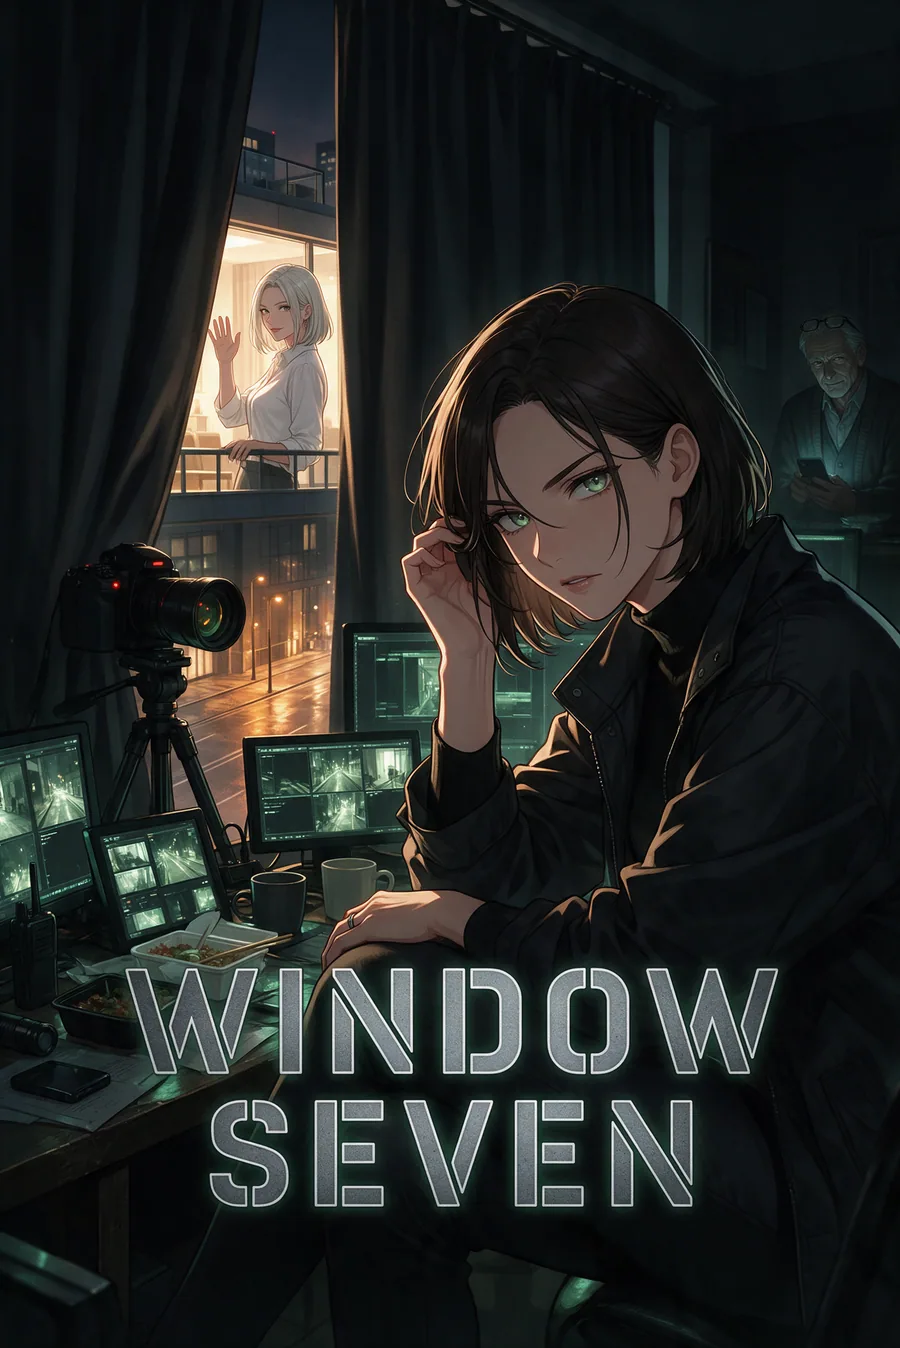
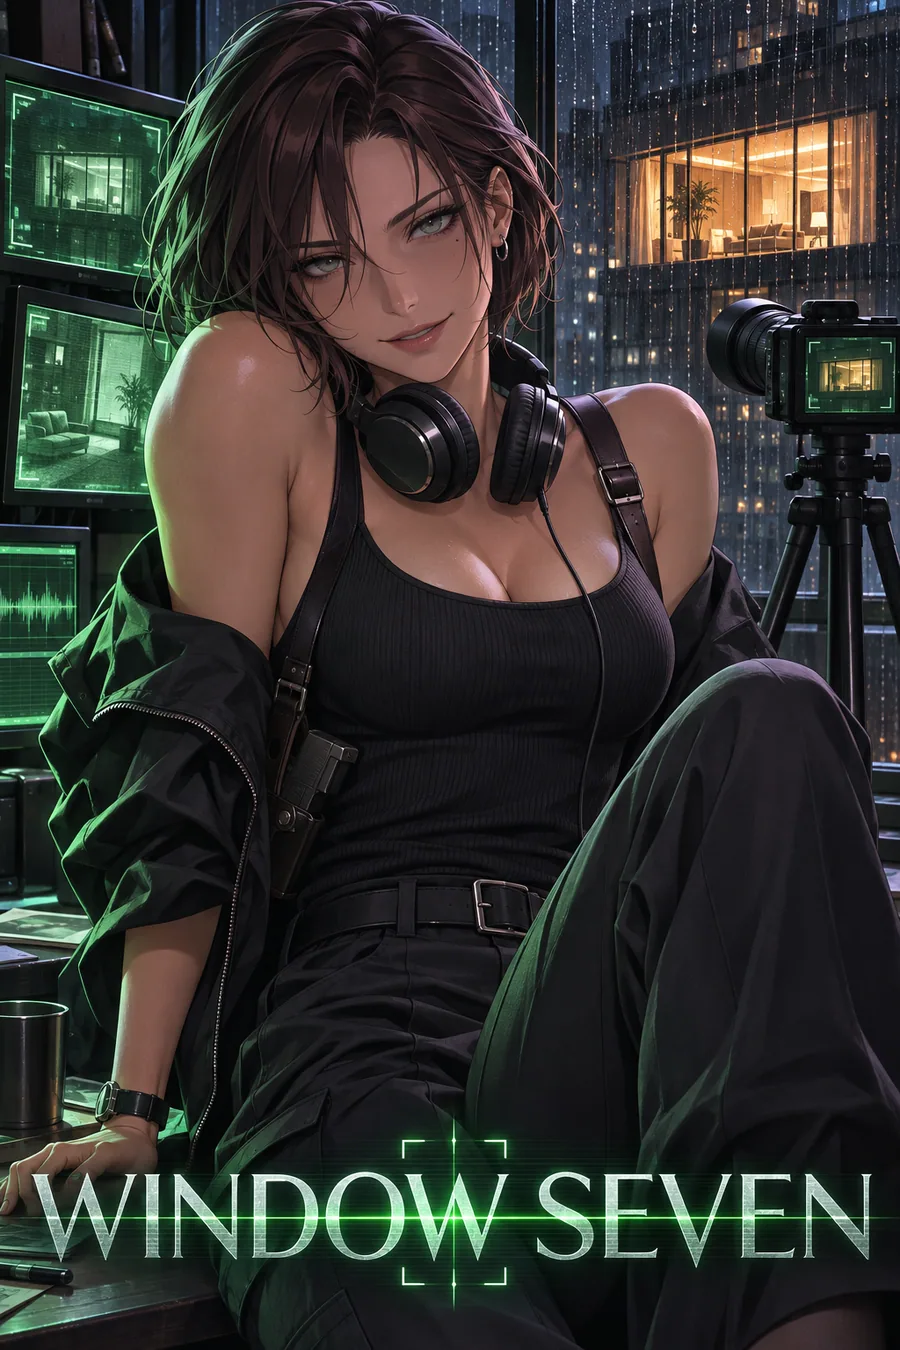
Covers v5 (English only): Seven Names, Window Seven, Primal Crown, The Tidewall, Last Service, The Fourth Beast; French keeps the old covers for now

diff --git a/infra/scripts/cover-openai.ts b/infra/scripts/cover-openai.ts
@@ -85,6 +85,78 @@ SCENE: a mech hangar on a space station at night. Behind her, huge and imposing,
 CHARACTER, large in frame, from mid-thigh up, filling about three quarters of the cover, close and centred: RHEA, an extremely attractive, very feminine adult woman of twenty-four, an elite rival mech pilot. Long glossy crimson-red hair falling past her shoulders in soft waves, pale gold eyes with long lashes, glossy lips, a soft beautiful face, curvy hourglass figure, a tiny pale scar under her left jawline. She wears a glossy black-and-crimson form-fitting pilot plugsuit with the front zip pulled down below her collarbone, the top half slipping off one shoulder, a gold Helion pilot pendant at her throat. Graceful, alluring pose: hips cocked to one side, one hand lifting her hair off her neck, the other resting lightly on the robot's giant chrome finger beside her, chin tilted down, looking at the viewer through her lashes with a soft, teasing, dangerous smile, as if inviting them into the cockpit.
 
 MOOD: glamorous, seductive, feminine mecha heroine; crimson rim light tracing her hair and silhouette against the cold blue hangar, the robot's red eye echoing her hair. Polished seasonal-anime key visual. ${RULES}`,
+
+  story_seven_names: `${STYLE}
+
+THE TITLE IS PART OF THE ART. Render the words "SEVEN NAMES" as a bespoke stylized logo: elegant gilded Art Deco serif lettering in warm gold with a faint candlelit glow, placed in the lower third, large and perfectly legible, spelled exactly "SEVEN NAMES". No other text anywhere.
+
+SCENE: a glittering masked ball in a glass-roofed 1920s Paris hall at night, chandeliers, champagne, dancers blurred behind her, gold and deep emerald light.
+
+CHARACTER, large in frame, from mid-thigh up, filling about three quarters of the cover, close and centred: CÉLESTE VARENNE, an extremely attractive adult woman of twenty-four, a con artist with seven identities and the only person who knows who really killed the minister. Dark chestnut hair in a glossy soft bob, grey-blue eyes, red lips, graceful figure. She wears a backless emerald satin evening gown with a high slit showing one leg, long black gloves, a black lace masquerade mask pushed up into her hair. She looks back at the viewer over her bare shoulder, holding a sealed letter between two gloved fingers against her lips, a sly, secretive, seductive smile.
+
+LEVEL: Sexier than a cosy romance cover, less than a pin-up: alluring, confident and flirtatious, showing some skin (bare shoulders, legs or midriff, a neckline that's open but not plunging), body-conscious clothes, a direct inviting look at the viewer.
+
+MOOD: glamorous, dangerous, seductive Belle Époque mystery; warm gold chandelier light on her skin against deep emerald shadow. ${RULES}`,
+
+  story_window_seven: `${STYLE}
+
+THE TITLE IS PART OF THE ART. Render the words "WINDOW SEVEN" as a bespoke stylized logo: clean cold surveillance-thriller lettering in pale silver with a green night-vision glow and a thin scanline, placed in the lower third, large and perfectly legible, spelled exactly "WINDOW SEVEN". No other text anywhere.
+
+SCENE: a dark apartment at night lit only by green surveillance monitors and a camera on a tripod pointed at a glowing penthouse window across the street, city lights and rain on the glass.
+
+CHARACTER, large in frame, from mid-thigh up, filling about three quarters of the cover, close and centred: MARA ELLISON, an extremely attractive adult woman of twenty-seven, the surveillance officer the viewer shares a stakeout with for seven nights. Jaw-length dark chestnut hair slightly mussed, grey-green eyes, lean athletic figure. Her black covert jacket has slipped off her shoulders and she wears a fitted black ribbed tank top tucked into high-waisted black trousers, a shoulder holster across her back. She sits on the edge of the desk beside the monitors, one knee up, headphones around her neck, turning from the screens to look at the viewer with a tired, knowing, flirtatious half-smile, as if it's 3 a.m. and the target is asleep.
+
+LEVEL: Sexier than a cosy romance cover, less than a pin-up: alluring, confident and flirtatious, showing some skin (bare shoulders, legs or midriff, a neckline that's open but not plunging), body-conscious clothes, a direct inviting look at the viewer.
+
+MOOD: intimate, tense, late-night thriller; her face and skin lit green and blue by the monitors, warm penthouse glow behind. ${RULES}`,
+
+  story_primal_crown: `${STYLE}
+
+THE TITLE IS PART OF THE ART. Render the words "PRIMAL CROWN" as a bespoke stylized logo: rough carved bone-and-gold tribal lettering with sunlit edges and a dusty glow, placed in the lower third, large and perfectly legible, spelled exactly "PRIMAL CROWN". No other text anywhere.
+
+SCENE: a vast golden savanna at sunset, a smoking volcano on the horizon, a huge stampede of prehistoric beasts and mammoths kicking up dust behind her, a sabre-toothed tiger lying at her feet.
+
+CHARACTER, large in frame, from mid-thigh up, filling about three quarters of the cover, close and centred: KAIA THORN, an extremely attractive adult woman of twenty-three, a fearless beast rider and the viewer's guide. Long dark copper hair in a loose wild braid coming apart, sun-kissed bronze skin, amber eyes, toned athletic curvy figure. She wears a cropped leather riding top and a short leather wrap skirt with a red woven sash at her hips, bone and amber jewellery, bare toned midriff and legs, leather arm wraps. She kneels with one hand resting on the tiger's head, the other holding a spear, looking straight at the viewer with a wild, playful, challenging smile, hair blowing in the wind.
+
+LEVEL: Sexier than a cosy romance cover, less than a pin-up: alluring, confident and flirtatious, showing some skin (bare shoulders, legs or midriff, a neckline that's open but not plunging), body-conscious clothes, a direct inviting look at the viewer.
+
+MOOD: warm, wild, adventurous and sexy; golden-hour rim light on her skin and hair against the dust and the stampede. ${RULES}`,
+
+  story_tidewall: `${STYLE}
+
+THE TITLE IS PART OF THE ART. Render the words "THE TIDEWALL" as a bespoke stylized logo: massive weathered steel-and-stone fortress lettering with icy blue edge light and frost, placed in the lower third, large and perfectly legible, spelled exactly "THE TIDEWALL". No other text anywhere.
+
+SCENE: the top of a colossal stone fortress wall at dusk in winter, snow blowing, braziers burning orange along the battlements, and below in the valley a dark tide of glowing-eyed beasts pouring out of the mountains.
+
+CHARACTER, large in frame, from mid-thigh up, filling about three quarters of the cover, close and centred: COMMANDER SABEL ANSETT, an extremely attractive adult woman in her early thirties, commander of the wall. A long dark braid over one shoulder, piercing grey eyes, strong elegant face, athletic curvy figure. She wears a fitted black commander's greatcoat hanging open over a form-fitting dark leather corset-style armour vest and fitted trousers with tall boots, one black glove on, a sword at her hip. She stands with one boot up on the battlement, coat blowing in the wind, looking back at the viewer with a cool, confident, slightly amused smile as if daring them to stay on the wall with her.
+
+LEVEL: Sexier than a cosy romance cover, less than a pin-up: alluring, confident and flirtatious, showing some skin (bare shoulders, legs or midriff, a neckline that's open but not plunging), body-conscious clothes, a direct inviting look at the viewer.
+
+MOOD: epic, cold and commanding with heat underneath; orange firelight on one side of her face, icy blue dusk on the other. ${RULES}`,
+
+  story_last_service: `${STYLE}
+
+THE TITLE IS PART OF THE ART. Render the words "LAST SERVICE" as a bespoke stylized logo: bold brush-script restaurant lettering in warm white with a steamy amber neon glow, placed in the lower third, large and perfectly legible, spelled exactly "LAST SERVICE". No other text anywhere.
+
+SCENE: a small family restaurant kitchen at night during the Friday rush, steam and flame from the wok burners, copper pans hanging, rain on the window behind, warm amber light.
+
+CHARACTER, large in frame, from mid-thigh up, filling about three quarters of the cover, close and centred: MINA SAEGUSA, an extremely attractive adult woman of twenty-four, the rival chef who turned up to buy the viewer's family restaurant and stayed to cook. Long dark hair in a loose low ponytail with strands falling across her face, sharp amber-brown eyes, glossy lips, slim curvy figure. Her white chef's jacket is unbuttoned and slipping off her shoulders over a fitted black camisole, sleeves rolled to the elbow, a sheen of kitchen heat on her skin, a silver tasting spoon in her hand. She leans back against the steel counter and holds the spoon out toward the viewer's mouth, eyes half-lidded, a teasing, competitive, flirty smile.
+
+LEVEL: Sexier than a cosy romance cover, less than a pin-up: alluring, confident and flirtatious, showing some skin (bare shoulders, legs or midriff, a neckline that's open but not plunging), body-conscious clothes, a direct inviting look at the viewer.
+
+MOOD: hot, steamy, flirty rivals-to-lovers kitchen romance; amber flame light and steam around her. ${RULES}`,
+
+  story_fourth_beast: `${STYLE}
+
+THE TITLE IS PART OF THE ART. Render the words "THE FOURTH BEAST" as a bespoke stylized logo: sharp gothic Parisian lettering in pale silver with a glowing green eldritch edge, placed in the lower third, large and perfectly legible, spelled exactly "THE FOURTH BEAST". No other text anywhere.
+
+SCENE: a rain-soaked Paris street at night, the Eiffel Tower lit in the mist behind, rows of memorial candles on wet cobblestones, a glowing green spectral fox-like creature coiled around a lamppost above her.
+
+CHARACTER, large in frame, from mid-thigh up, filling about three quarters of the cover, close and centred: CAMILLE LAURENT, an extremely attractive adult woman of twenty-one, searching Paris for her missing brother and the only one who can see the beasts. Short espresso-brown hair with a messy fringe damp from the rain, pale green eyes glowing faintly, slim athletic figure. She wears a cropped black leather jacket open over a thin cream crop top soaked by the rain, low-slung charcoal cargo trousers, bare toned midriff. She stands close to the viewer in the rain, one hand holding a candle, looking up at them through wet lashes with an intense, vulnerable, flirtatious look, lips parted.
+
+LEVEL: Sexier than a cosy romance cover, less than a pin-up: alluring, confident and flirtatious, showing some skin (bare shoulders, legs or midriff, a neckline that's open but not plunging), body-conscious clothes, a direct inviting look at the viewer.
+
+MOOD: moody, romantic urban-fantasy noir; candlelight warming her face against cold green-blue rain and the beast's glow. ${RULES}`,
 };
 
 async function generate(prompt: string): Promise<Buffer> {

diff --git a/docs/covers-v5/story_window_seven/PROMPT.md b/docs/covers-v5/story_window_seven/PROMPT.md
@@ -1,0 +1,13 @@
+# story_window_seven cover v5 (gpt-image-2.6-sunburst, 1024x1536, high)
+
+Anime light-novel / mobile-game cover illustration, portrait 2:3, premium polished Japanese anime key visual quality (like a modern seasonal anime poster or a Webtoon original cover). Glossy, detailed digital anime painting with clean lineart, luminous eyes, soft rim light, rich color depth. Not flat, not sketchy, not western cartoon, not 3D.
+
+THE TITLE IS PART OF THE ART. Render the words "WINDOW SEVEN" as a bespoke stylized logo: clean cold surveillance-thriller lettering in pale silver with a green night-vision glow and a thin scanline, placed in the lower third, large and perfectly legible, spelled exactly "WINDOW SEVEN". No other text anywhere.
+
+SCENE: a dark apartment at night lit only by green surveillance monitors and a camera on a tripod pointed at a glowing penthouse window across the street, city lights and rain on the glass.
+
+CHARACTER, large in frame, from mid-thigh up, filling about three quarters of the cover, close and centred: MARA ELLISON, an extremely attractive adult woman of twenty-seven, the surveillance officer the viewer shares a stakeout with for seven nights. Jaw-length dark chestnut hair slightly mussed, grey-green eyes, lean athletic figure. Her black covert jacket has slipped off her shoulders and she wears a fitted black ribbed tank top tucked into high-waisted black trousers, a shoulder holster across her back. She sits on the edge of the desk beside the monitors, one knee up, headphones around her neck, turning from the screens to look at the viewer with a tired, knowing, flirtatious half-smile, as if it's 3 a.m. and the target is asleep.
+
+LEVEL: Sexier than a cosy romance cover, less than a pin-up: alluring, confident and flirtatious, showing some skin (bare shoulders, legs or midriff, a neckline that's open but not plunging), body-conscious clothes, a direct inviting look at the viewer.
+
+MOOD: intimate, tense, late-night thriller; her face and skin lit green and blue by the monitors, warm penthouse glow behind. Every person in the image is an adult. She is drawn attractive and stylish in a commercial anime way, tasteful, nothing explicit, nothing see-through. Composed so her face still reads at thumbnail size, strong silhouette separation, high contrast. No watermark, no signature, no extra text, no logos, no speech bubbles, no borders.

diff --git a/docs/covers-v5/story_tidewall/PROMPT.md b/docs/covers-v5/story_tidewall/PROMPT.md
@@ -1,0 +1,13 @@
+# story_tidewall cover v5 (gpt-image-2.6-sunburst, 1024x1536, high)
+
+Anime light-novel / mobile-game cover illustration, portrait 2:3, premium polished Japanese anime key visual quality (like a modern seasonal anime poster or a Webtoon original cover). Glossy, detailed digital anime painting with clean lineart, luminous eyes, soft rim light, rich color depth. Not flat, not sketchy, not western cartoon, not 3D.
+
+THE TITLE IS PART OF THE ART. Render the words "THE TIDEWALL" as a bespoke stylized logo: massive weathered steel-and-stone fortress lettering with icy blue edge light and frost, placed in the lower third, large and perfectly legible, spelled exactly "THE TIDEWALL". No other text anywhere.
+
+SCENE: the top of a colossal stone fortress wall at dusk in winter, snow blowing, braziers burning orange along the battlements, and below in the valley a dark tide of glowing-eyed beasts pouring out of the mountains.
+
+CHARACTER, large in frame, from mid-thigh up, filling about three quarters of the cover, close and centred: COMMANDER SABEL ANSETT, an extremely attractive adult woman in her early thirties, commander of the wall. A long dark braid over one shoulder, piercing grey eyes, strong elegant face, athletic curvy figure. She wears a fitted black commander's greatcoat hanging open over a form-fitting dark leather corset-style armour vest and fitted trousers with tall boots, one black glove on, a sword at her hip. She stands with one boot up on the battlement, coat blowing in the wind, looking back at the viewer with a cool, confident, slightly amused smile as if daring them to stay on the wall with her.
+
+LEVEL: Sexier than a cosy romance cover, less than a pin-up: alluring, confident and flirtatious, showing some skin (bare shoulders, legs or midriff, a neckline that's open but not plunging), body-conscious clothes, a direct inviting look at the viewer.
+
+MOOD: epic, cold and commanding with heat underneath; orange firelight on one side of her face, icy blue dusk on the other. Every person in the image is an adult. She is drawn attractive and stylish in a commercial anime way, tasteful, nothing explicit, nothing see-through. Composed so her face still reads at thumbnail size, strong silhouette separation, high contrast. No watermark, no signature, no extra text, no logos, no speech bubbles, no borders.

diff --git a/docs/covers-v5/story_fourth_beast/PROMPT.md b/docs/covers-v5/story_fourth_beast/PROMPT.md
@@ -1,0 +1,13 @@
+# story_fourth_beast cover v5 (gpt-image-2.6-sunburst, 1024x1536, high)
+
+Anime light-novel / mobile-game cover illustration, portrait 2:3, premium polished Japanese anime key visual quality (like a modern seasonal anime poster or a Webtoon original cover). Glossy, detailed digital anime painting with clean lineart, luminous eyes, soft rim light, rich color depth. Not flat, not sketchy, not western cartoon, not 3D.
+
+THE TITLE IS PART OF THE ART. Render the words "THE FOURTH BEAST" as a bespoke stylized logo: sharp gothic Parisian lettering in pale silver with a glowing green eldritch edge, placed in the lower third, large and perfectly legible, spelled exactly "THE FOURTH BEAST". No other text anywhere.
+
+SCENE: a rain-soaked Paris street at night, the Eiffel Tower lit in the mist behind, rows of memorial candles on wet cobblestones, a glowing green spectral fox-like creature coiled around a lamppost above her.
+
+CHARACTER, large in frame, from mid-thigh up, filling about three quarters of the cover, close and centred: CAMILLE LAURENT, an extremely attractive adult woman of twenty-one, searching Paris for her missing brother and the only one who can see the beasts. Short espresso-brown hair with a messy fringe damp from the rain, pale green eyes glowing faintly, slim athletic figure. She wears a cropped black leather jacket open over a thin cream crop top soaked by the rain, low-slung charcoal cargo trousers, bare toned midriff. She stands close to the viewer in the rain, one hand holding a candle, looking up at them through wet lashes with an intense, vulnerable, flirtatious look, lips parted.
+
+LEVEL: Sexier than a cosy romance cover, less than a pin-up: alluring, confident and flirtatious, showing some skin (bare shoulders, legs or midriff, a neckline that's open but not plunging), body-conscious clothes, a direct inviting look at the viewer.
+
+MOOD: moody, romantic urban-fantasy noir; candlelight warming her face against cold green-blue rain and the beast's glow. Every person in the image is an adult. She is drawn attractive and stylish in a commercial anime way, tasteful, nothing explicit, nothing see-through. Composed so her face still reads at thumbnail size, strong silhouette separation, high contrast. No watermark, no signature, no extra text, no logos, no speech bubbles, no borders.

diff --git a/docs/covers-v5/story_last_service/PROMPT.md b/docs/covers-v5/story_last_service/PROMPT.md
@@ -1,0 +1,13 @@
+# story_last_service cover v5 (gpt-image-2.6-sunburst, 1024x1536, high)
+
+Anime light-novel / mobile-game cover illustration, portrait 2:3, premium polished Japanese anime key visual quality (like a modern seasonal anime poster or a Webtoon original cover). Glossy, detailed digital anime painting with clean lineart, luminous eyes, soft rim light, rich color depth. Not flat, not sketchy, not western cartoon, not 3D.
+
+THE TITLE IS PART OF THE ART. Render the words "LAST SERVICE" as a bespoke stylized logo: bold brush-script restaurant lettering in warm white with a steamy amber neon glow, placed in the lower third, large and perfectly legible, spelled exactly "LAST SERVICE". No other text anywhere.
+
+SCENE: a small family restaurant kitchen at night during the Friday rush, steam and flame from the wok burners, copper pans hanging, rain on the window behind, warm amber light.
+
+CHARACTER, large in frame, from mid-thigh up, filling about three quarters of the cover, close and centred: MINA SAEGUSA, an extremely attractive adult woman of twenty-four, the rival chef who turned up to buy the viewer's family restaurant and stayed to cook. Long dark hair in a loose low ponytail with strands falling across her face, sharp amber-brown eyes, glossy lips, slim curvy figure. Her white chef's jacket is unbuttoned and slipping off her shoulders over a fitted black camisole, sleeves rolled to the elbow, a sheen of kitchen heat on her skin, a silver tasting spoon in her hand. She leans back against the steel counter and holds the spoon out toward the viewer's mouth, eyes half-lidded, a teasing, competitive, flirty smile.
+
+LEVEL: Sexier than a cosy romance cover, less than a pin-up: alluring, confident and flirtatious, showing some skin (bare shoulders, legs or midriff, a neckline that's open but not plunging), body-conscious clothes, a direct inviting look at the viewer.
+
+MOOD: hot, steamy, flirty rivals-to-lovers kitchen romance; amber flame light and steam around her. Every person in the image is an adult. She is drawn attractive and stylish in a commercial anime way, tasteful, nothing explicit, nothing see-through. Composed so her face still reads at thumbnail size, strong silhouette separation, high contrast. No watermark, no signature, no extra text, no logos, no speech bubbles, no borders.

diff --git a/docs/covers-v5/story_primal_crown/PROMPT.md b/docs/covers-v5/story_primal_crown/PROMPT.md
@@ -1,0 +1,13 @@
+# story_primal_crown cover v5 (gpt-image-2.6-sunburst, 1024x1536, high)
+
+Anime light-novel / mobile-game cover illustration, portrait 2:3, premium polished Japanese anime key visual quality (like a modern seasonal anime poster or a Webtoon original cover). Glossy, detailed digital anime painting with clean lineart, luminous eyes, soft rim light, rich color depth. Not flat, not sketchy, not western cartoon, not 3D.
+
+THE TITLE IS PART OF THE ART. Render the words "PRIMAL CROWN" as a bespoke stylized logo: rough carved bone-and-gold tribal lettering with sunlit edges and a dusty glow, placed in the lower third, large and perfectly legible, spelled exactly "PRIMAL CROWN". No other text anywhere.
+
+SCENE: a vast golden savanna at sunset, a smoking volcano on the horizon, a huge stampede of prehistoric beasts and mammoths kicking up dust behind her, a sabre-toothed tiger lying at her feet.
+
+CHARACTER, large in frame, from mid-thigh up, filling about three quarters of the cover, close and centred: KAIA THORN, an extremely attractive adult woman of twenty-three, a fearless beast rider and the viewer's guide. Long dark copper hair in a loose wild braid coming apart, sun-kissed bronze skin, amber eyes, toned athletic curvy figure. She wears a cropped leather riding top and a short leather wrap skirt with a red woven sash at her hips, bone and amber jewellery, bare toned midriff and legs, leather arm wraps. She kneels with one hand resting on the tiger's head, the other holding a spear, looking straight at the viewer with a wild, playful, challenging smile, hair blowing in the wind.
+
+LEVEL: Sexier than a cosy romance cover, less than a pin-up: alluring, confident and flirtatious, showing some skin (bare shoulders, legs or midriff, a neckline that's open but not plunging), body-conscious clothes, a direct inviting look at the viewer.
+
+MOOD: warm, wild, adventurous and sexy; golden-hour rim light on her skin and hair against the dust and the stampede. Every person in the image is an adult. She is drawn attractive and stylish in a commercial anime way, tasteful, nothing explicit, nothing see-through. Composed so her face still reads at thumbnail size, strong silhouette separation, high contrast. No watermark, no signature, no extra text, no logos, no speech bubbles, no borders.

diff --git a/docs/covers-v5/story_seven_names/PROMPT.md b/docs/covers-v5/story_seven_names/PROMPT.md
@@ -1,0 +1,13 @@
+# story_seven_names cover v5 (gpt-image-2.6-sunburst, 1024x1536, high)
+
+Anime light-novel / mobile-game cover illustration, portrait 2:3, premium polished Japanese anime key visual quality (like a modern seasonal anime poster or a Webtoon original cover). Glossy, detailed digital anime painting with clean lineart, luminous eyes, soft rim light, rich color depth. Not flat, not sketchy, not western cartoon, not 3D.
+
+THE TITLE IS PART OF THE ART. Render the words "SEVEN NAMES" as a bespoke stylized logo: elegant gilded Art Deco serif lettering in warm gold with a faint candlelit glow, placed in the lower third, large and perfectly legible, spelled exactly "SEVEN NAMES". No other text anywhere.
+
+SCENE: a glittering masked ball in a glass-roofed 1920s Paris hall at night, chandeliers, champagne, dancers blurred behind her, gold and deep emerald light.
+
+CHARACTER, large in frame, from mid-thigh up, filling about three quarters of the cover, close and centred: CÉLESTE VARENNE, an extremely attractive adult woman of twenty-four, a con artist with seven identities and the only person who knows who really killed the minister. Dark chestnut hair in a glossy soft bob, grey-blue eyes, red lips, graceful figure. She wears a backless emerald satin evening gown with a high slit showing one leg, long black gloves, a black lace masquerade mask pushed up into her hair. She looks back at the viewer over her bare shoulder, holding a sealed letter between two gloved fingers against her lips, a sly, secretive, seductive smile.
+
+LEVEL: Sexier than a cosy romance cover, less than a pin-up: alluring, confident and flirtatious, showing some skin (bare shoulders, legs or midriff, a neckline that's open but not plunging), body-conscious clothes, a direct inviting look at the viewer.
+
+MOOD: glamorous, dangerous, seductive Belle Époque mystery; warm gold chandelier light on her skin against deep emerald shadow. Every person in the image is an adult. She is drawn attractive and stylish in a commercial anime way, tasteful, nothing explicit, nothing see-through. Composed so her face still reads at thumbnail size, strong silhouette separation, high contrast. No watermark, no signature, no extra text, no logos, no speech bubbles, no borders.
